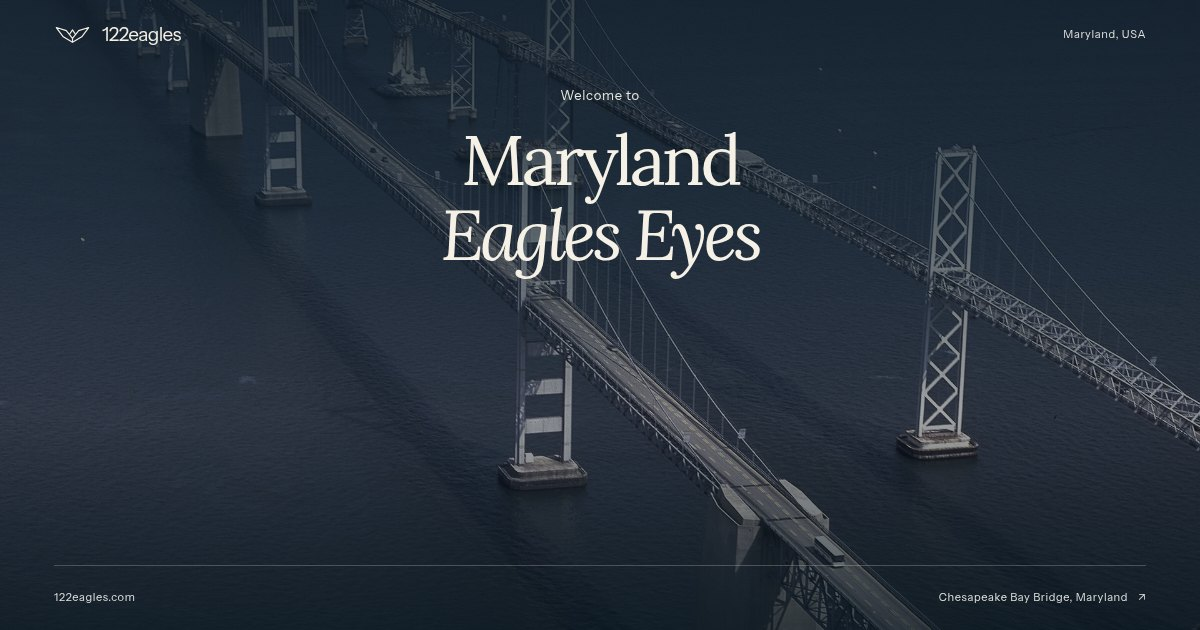
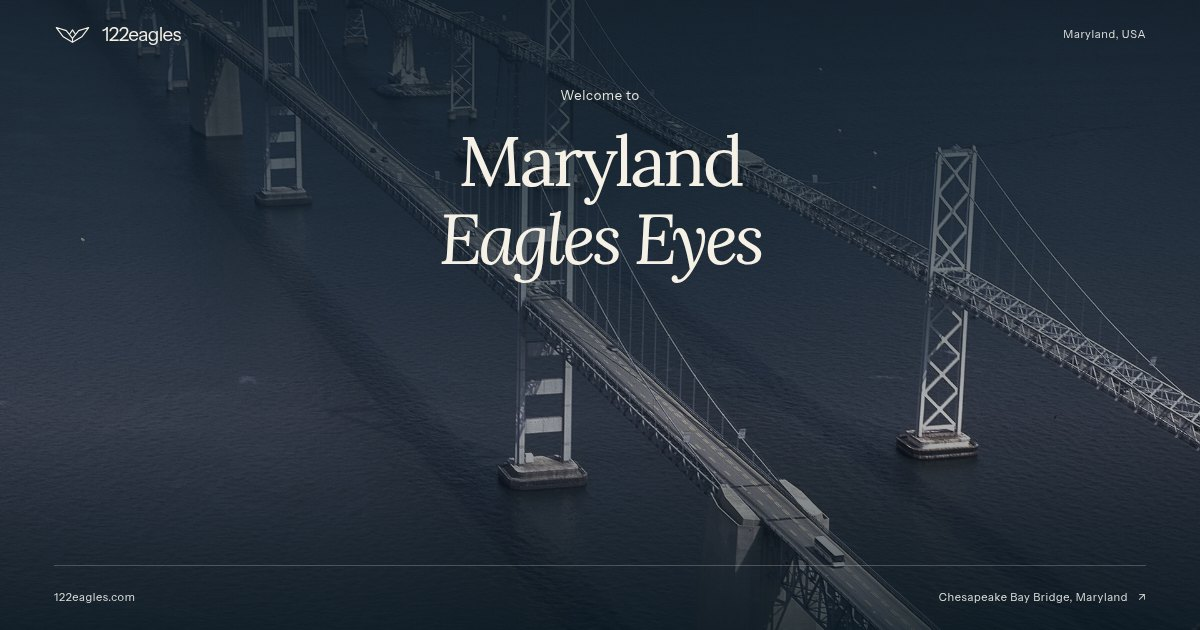
Polish typography, image contrast and accessible entrance

Changed region(s): [[0.37, 0.3317, 0.6475, 0.4524], [0.37, 0.2111, 0.6167, 0.3016]]

diff --git a/style.css b/style.css
@@ -8,22 +8,26 @@ body{margin:0;min-height:100svh;display:grid;grid-template-rows:auto 1fr auto;ba
 a{color:inherit;text-decoration:none;touch-action:manipulation}
 a:focus-visible{outline:2px solid var(--ink);outline-offset:6px;border-radius:2px}
 .landscape{position:absolute;inset:0;z-index:-2;overflow:hidden;pointer-events:none;background:#244452}
-.landscape img{display:block;width:100%;height:100%;object-fit:cover;object-position:50% 58%;filter:saturate(.55) brightness(.75)}
-body::before{content:"";position:absolute;inset:0;z-index:-1;pointer-events:none;background:linear-gradient(180deg,rgba(9,24,34,.74) 0%,rgba(12,30,41,.59) 32%,rgba(15,32,41,.17) 66%,rgba(7,22,31,.68) 100%)}
+.landscape img{display:block;width:100%;height:100%;object-fit:cover;object-position:50% 58%;filter:saturate(.48) brightness(.82)}
+body::before{content:"";position:absolute;inset:0;z-index:-1;pointer-events:none;background:radial-gradient(ellipse at 50% 29%,rgba(9,24,34,.28),transparent 58%),linear-gradient(180deg,rgba(9,24,34,.77) 0%,rgba(12,30,41,.56) 32%,rgba(15,32,41,.12) 66%,rgba(7,22,31,.72) 100%)}
 .masthead{display:flex;align-items:center;justify-content:space-between;gap:20px;padding:clamp(23px,3.4vh,40px) var(--gutter);z-index:1}
 .identity{display:inline-flex;align-items:center;gap:11px;min-height:44px;font-size:19px;letter-spacing:-.035em}
 .eagle{flex-shrink:0}
 .location,footer{font-size:11px;letter-spacing:.055em}
 .location{line-height:1.5;color:#e0e3df}
 main{display:grid;min-height:530px;align-items:start;position:relative}
-.welcome{position:relative;text-align:center;padding:clamp(30px,6.5vh,82px) 24px 240px}
-h1{display:flex;flex-direction:column;align-items:center;gap:0;font-family:Lora,Georgia,serif;font-size:clamp(58px,6.8vw,104px);font-weight:400;line-height:1.08;letter-spacing:-.055em;margin:0;text-wrap:balance}
+.welcome{position:relative;text-align:center;padding:clamp(30px,7vh,88px) 24px 240px;animation:arrival .85s cubic-bezier(.2,.7,.25,1) both}
+h1{display:flex;flex-direction:column;align-items:center;gap:0;font-family:Lora,Georgia,serif;font-size:clamp(46px,calc(30px + 4.65vw),104px);font-weight:400;line-height:1.12;letter-spacing:-.045em;margin:0;text-wrap:balance}
 h1 .eyebrow{font-family:'Instrument Sans',Arial,sans-serif;font-size:clamp(13px,1vw,15px);line-height:1.5;letter-spacing:.055em;margin-bottom:25px;color:#e7e8e1}
-h1 em{font-weight:400}
+h1 em{font-weight:400;letter-spacing:-.05em}
 footer{display:flex;justify-content:space-between;align-items:center;gap:24px;margin:0 var(--gutter);padding:16px 0 20px;border-top:1px solid rgba(246,241,230,.23);color:#e0e3df;z-index:1;line-height:1.6}
 .landmark{min-height:44px;display:inline-flex;align-items:center;gap:10px}
 .landmark:hover{text-decoration:underline;text-underline-offset:5px}
 @media(min-width:1800px){main{min-height:750px}.welcome{padding-top:8vh}}
-@media(max-width:600px){.identity{font-size:17px;gap:8px}.eagle{width:31px}.location{font-size:10px;letter-spacing:.025em}.masthead{padding-top:18px;padding-bottom:18px}main{min-height:530px}.welcome{padding:68px 18px 280px}h1{font-size:clamp(46px,11.8vw,70px);line-height:1.12;letter-spacing:-.055em}h1 .eyebrow{font-size:13px;margin-bottom:22px}.landscape img{object-position:41% 65%;filter:saturate(.5) brightness(.72)}body::before{background:linear-gradient(180deg,rgba(9,24,34,.78),rgba(12,30,41,.67) 37%,rgba(15,32,41,.08) 65%,rgba(7,22,31,.8))}footer{font-size:10px;gap:12px;padding:12px 0}.landmark{max-width:190px;gap:6px;letter-spacing:0;text-align:right}}
+@media(max-width:600px){.identity{font-size:17px;gap:8px}.eagle{width:31px}.location{font-size:10px;letter-spacing:.025em}.masthead{padding-top:18px;padding-bottom:18px}main{min-height:530px}.welcome{padding:68px 18px 280px}h1{font-size:clamp(46px,calc(30px + 4.65vw),104px);line-height:1.12;letter-spacing:-.045em}h1 .eyebrow{font-size:13px;margin-bottom:22px}.landscape img{object-position:41% 65%;filter:saturate(.5) brightness(.72)}body::before{background:linear-gradient(180deg,rgba(9,24,34,.78),rgba(12,30,41,.67) 37%,rgba(15,32,41,.08) 65%,rgba(7,22,31,.8))}footer{font-size:10px;gap:12px;padding:12px 0}.landmark{max-width:190px;gap:6px;letter-spacing:0;text-align:right}}
 @media(max-width:360px){.location{font-size:9px}footer{align-items:center}.landmark{max-width:151px;line-height:1.5}}
 @media(max-height:600px) and (min-width:601px){main{min-height:330px}.welcome{padding-top:10px;padding-bottom:140px}h1{font-size:55px}h1 .eyebrow{font-size:12px;margin-bottom:12px}.masthead{padding-block:12px}footer{padding-block:8px}.landscape img{object-position:50% 52%}}
+
+@keyframes arrival{from{opacity:0;transform:translateY(8px)}to{opacity:1;transform:translateY(0)}}
+@media(prefers-reduced-motion:reduce){.welcome{animation:none}}
+@media(prefers-contrast:more){body::before{background:rgba(6,18,26,.8)}footer{border-top-color:rgba(246,241,230,.6)}}

diff --git a/WORK_STATUS.md b/WORK_STATUS.md
@@ -32,6 +32,11 @@ browser sign-ins are available. Do not change unrelated projects or DNS records.
 - Standard Vercel protection (`prod_deployment_urls_and_all_previews`) keeps
   preview/deployment URLs protected and the production alias public.
 
+- Final polish: refined letter spacing and consistent phone/tablet type scale,
+  softer image shading, an 850ms entrance (disabled for reduced motion), and an
+  increased-contrast treatment. Seven viewport checks (320–2560px), entrance
+  completion and contrast preference checks pass.
+
 ## Remaining
 
 1. Create a private GitHub repo `adetuyiTolu/122eagles`, empty; then push main.
@@ -62,8 +67,10 @@ records changed and no repository created. GitHub run
 `26bbf298-c654-4853-a11e-17e56cec5129` and Namecheap inspection
 `d2a65b0e-80db-40e5-bff3-850394ecb84c` are completed, not pending.
 
-Asked the user whether to open a secure GitHub sign-in page; waiting for a reply.
-Namecheap also needs a fresh sign-in. Use TinyFish start_profile_setup_session
+User requested the final visual refinement and domain configuration. A secure
+Namecheap profile setup was opened in TinyFish; waiting for the user to sign in,
+click Save profile, and reply saved. Do not run Namecheap automation until saved.
+GitHub still needs a fresh sign-in or user-created empty repository. Use TinyFish start_profile_setup_session
 only after consent, give the setup link and wait until the user signs in and
 saves the profile. Never request passwords or verification codes in chat.
 
